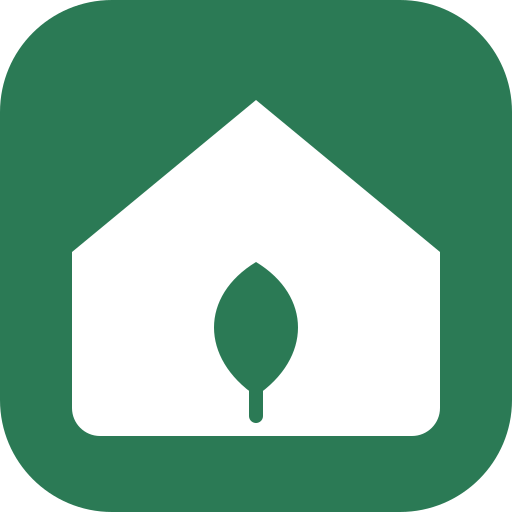
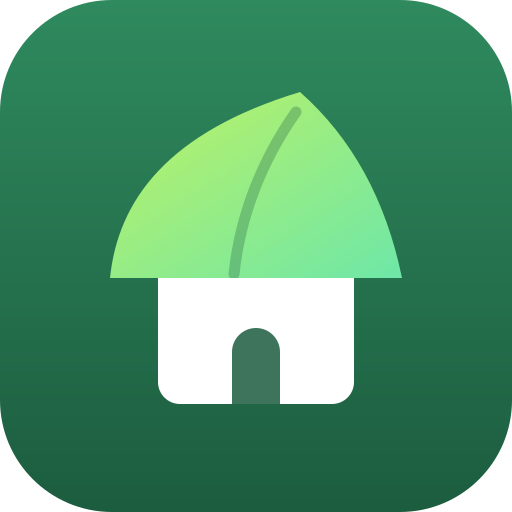
Appoios: marca, logótipo e os dois domínios
A app passa a chamar-se **Appoios** e vive em `appoios.guru`. O `apoios.guru` foi
registado como defensivo e redirige.

## O nome

Levantei a objecção e mantém-se registada: "apoios" é uma palavra portuguesa a
sério, "appoios" é essa palavra mal escrita, e para quem recebe um email sobre 15 000 €
de financiamento um domínio quase-certo é exactamente o que um esquema de phishing
parece. A decisão é do dono do produto e está tomada; fica aqui porque daqui a um
ano ninguém se lembra do raciocínio.

A substituição foi cirúrgica, não global. "Apoios" é o nome da marca **e** o plural
comum que o produto inteiro trata. Mudaram o título, o `applicationName`, o nome no
manifest e o cabeçalho; ficaram como estavam o rótulo `/apoios` na navegação,
"apoios ambientais e energéticos" na descrição e o atalho "Apoios abertos" — que são
a palavra, não a marca.

## O logótipo

Uma casa coberta por uma folha.

Comecei por um "A" cuja travessa era uma folha. Não resultou: uma folha simétrica
deitada com uma nervura ao meio é um olho, em qualquer tamanho, e mexer na geometria
não corrigia o que estava errado na ideia. Uma casa debaixo de uma folha diz casa e
diz verde de uma vez, sem letra nenhuma para decifrar — que é o que um logótipo tem
de fazer no meio segundo que alguém lhe dedica num separador.

A ponta da folha cai para a direita em vez de ficar ao centro: uma folha nasce de um
pé em ângulo, e é essa assimetria que impede a forma de parecer uma tenda. Verifiquei
[…]

diff --git a/apps/web/middleware.ts b/apps/web/middleware.ts
@@ -1,15 +1,72 @@
 import { createServerClient } from "@supabase/ssr";
 import { NextResponse, type NextRequest } from "next/server";
 
+/** Where the app actually lives. */
+const CANONICO = "appoios.guru";
+
+/** The defensive registration. Redirected, and counted before it is. */
+const DEFENSIVOS = new Set(["apoios.guru", "www.apoios.guru"]);
+
+const CONTADOS = new Set([
+  "appoios.guru",
+  "www.appoios.guru",
+  "apoios.guru",
+  "www.apoios.guru",
+]);
+
 /**
- * Refreshes the Supabase session cookie on every matched request.
+ * Count one visit against a domain.
  *
- * Without this, an expired access token is only renewed when something explicitly
- * calls `getUser()`, which signs people out mid-session even though their refresh
- * token is still valid. Someone who set their measures a fortnight ago and comes
- * back to change them should not be asked to sign in again.
+ * Fire and forget, and deliberately not awaited: this exists to answer "is the
+ * defensive domain worth renewing?", and no answer to that is worth making a page
+ * slower or failing a request. A dropped count is a rounding error; a page that
+ * hangs because Supabase is slow is a real problem.
+ *
+ * One row per day per host, no IP, no cookie, no path — see migration 0006. It is
+ * not audience analytics and cannot become it without a schema change, which is
+ * what keeps `/privacidade`'s claim honest.
+ */
+function contar(host: string): void {
+  const url = process.env.NEXT_PUBLIC_SUPABASE_URL;
+  const chave = process.env.NEXT_PUBLIC_SUPABASE_ANON_KEY;
+  if (!url || !chave || !CONTADOS.has(host)) return;
+
+  void fetch(`${url}/rest/v1/rpc/registar_acesso_dominio`, {
+    method: "POST",
+    headers: {
+      "content-type": "application/json",
+      apikey: chave,
+      authorization: `Bearer ${chave}`,
+    },
+    body: JSON.stringify({ p_host: host }),
+  }).catch(() => {
+    // Swallowed on purpose. See above.
+  });
+}
+
+/**
+ * Canonical host, then session refresh.
+ *
+ * Without the refresh an expired access token is only renewed when something calls
+ * `getUser()`, which signs people out mid-session even though their refresh token
+ * is still valid. Someone who set their measures a fortnight ago and comes back to
+ * change them should not be asked to sign in again.
  */
 export async function middleware(request: NextRequest) {
+  const host = (request.headers.get("host") ?? "").toLowerCase().replace(/:\d+$/, "");
+
+  contar(host);
+
+  if (DEFENSIVOS.has(host)) {
+    const destino = new URL(request.nextUrl);
+    destino.host = CANONICO;
+    destino.port = "";
+    destino.protocol = "https:";
+    // 308 rather than 302: permanent, and it preserves the method, so a form post
+    // that lands on the old domain is not silently turned into a GET.
+    return NextResponse.redirect(destino, 308);
+  }
+
   const resposta = NextResponse.next({ request });
 
   const supabase = createServerClient(

diff --git a/apps/web/app/layout.tsx b/apps/web/app/layout.tsx
@@ -10,17 +10,17 @@ export const metadata: Metadata = {
   // that does not serve the site. `urlDoSitio` falls back to the Vercel domain.
   metadataBase: new URL(urlDoSitio()),
   title: {
-    default: "Apoios — financiamento ambiental para a sua casa",
-    template: "%s · Apoios",
+    default: "Appoios — financiamento ambiental para a sua casa",
+    template: "%s · Appoios",
   },
   description:
     "Alertas de apoios ambientais e energéticos em Portugal, para as melhorias " +
     "que quer fazer em casa e a que se pode mesmo candidatar.",
-  applicationName: "Apoios",
+  applicationName: "Appoios",
   manifest: "/manifest.webmanifest",
   appleWebApp: {
     capable: true,
-    title: "Apoios",
+    title: "Appoios",
     // `default` keeps the status bar legible in both colour schemes; `black-translucent`
     // would put iOS's own text over the header.
     statusBarStyle: "default",
@@ -72,13 +72,10 @@ export default function RootLayout({ children }: { children: React.ReactNode }) 
               href="/"
               className="flex items-center gap-2 text-lg font-semibold tracking-tight"
             >
-              <span
-                aria-hidden
-                className="grid size-7 place-items-center rounded-lg bg-marca text-sm font-bold text-white"
-              >
-                A
-              </span>
-              Apoios
+              {/* The mark itself, not a letter in a box: the wordmark is beside it,
+                  so a second "A" here would just say the same thing twice. */}
+              <img src="/icone.svg" alt="" aria-hidden width={28} height={28} className="rounded-lg" />
+              Appoios
             </Link>
             <nav aria-label="Principal" className="flex gap-1 text-sm">
               {LIGACOES.map((l) => (
@@ -106,7 +103,7 @@ export default function RootLayout({ children }: { children: React.ReactNode }) 
         <footer className="mt-16 border-t border-linha bg-superficie">
           <div className="mx-auto max-w-6xl space-y-4 px-4 py-8 text-sm text-suave">
             <p className="max-w-3xl">
-              O Apoios não está associado ao Fundo Ambiental, ao Portugal 2030, ao PRR
+              O Appoios não está associado ao Fundo Ambiental, ao Portugal 2030, ao PRR
               nem a qualquer entidade pública. A informação é recolhida
               automaticamente e pode estar incompleta ou desatualizada.{" "}
               <strong className="font-medium text-tinta">

diff --git a/apps/web/app/privacidade/page.tsx b/apps/web/app/privacidade/page.tsx
@@ -43,7 +43,11 @@ export default function Privacidade() {
       <h2 className="text-lg font-medium pt-2">Cookies</h2>
       <p>
         Usamos apenas o cookie de sessão estritamente necessário ao início de sessão.
-        Não usamos analítica nem cookies de terceiros.
+        Não usamos analítica nem cookies de terceiros. Contamos quantas visitas
+        chegam por cada um dos nossos domínios — só isso, um número por dia e por
+        domínio, sem endereço IP, sem cookie e sem a página visitada. Serve para
+        decidir se vale a pena manter o segundo domínio registado, e não permite
+        identificar ninguém.
       </p>
     </div>
   );

diff --git a/apps/web/app/manifest.webmanifest/route.ts b/apps/web/app/manifest.webmanifest/route.ts
@@ -15,8 +15,8 @@ import type { MetadataRoute } from "next";
 export function GET(): Response {
   const manifest: MetadataRoute.Manifest = {
     id: "/",
-    name: "Apoios — financiamento ambiental para a sua casa",
-    short_name: "Apoios",
+    name: "Appoios — financiamento ambiental para a sua casa",
+    short_name: "Appoios",
     description:
       "Apoios ambientais e energéticos para habitação em Portugal, com alerta " +
       "quando abre financiamento para o que quer melhorar em casa.",

diff --git a/packages/ingest/src/http/tipos.ts b/packages/ingest/src/http/tipos.ts
@@ -39,7 +39,7 @@ export interface Buscador {
  * it claims accountability that is not there.
  */
 export const USER_AGENT =
-  "ApoiosBot/1.0 (+https://apoios.guru/sobre; contacto@apoios.guru)";
+  "AppoiosBot/1.0 (+https://appoios.guru/sobre; contacto@appoios.guru)";
 
 /** Minimum gap between requests to the same host. Government infrastructure. */
 export const ATRASO_ENTRE_PEDIDOS_MS = 2_000;

diff --git a/DEPLOY.md b/DEPLOY.md
@@ -36,7 +36,10 @@ de financiamento errada é exactamente o dano que este produto existe para evita
 
 ## Domínio
 
-**`apoios.guru`**, registado na Namecheap.
+A app chama-se **Appoios** e vive em **`appoios.guru`**. O **`apoios.guru`** foi
+registado como defensivo e redirige (308) para o canónico.
+
+Ambos na Namecheap.
 
 Nada no código o tem escrito à mão. O `urlDoSitio()` resolve a origem por esta ordem:
 `NEXT_PUBLIC_APP_URL` → domínio de produção da Vercel → localhost. É deliberado: um
@@ -53,12 +56,27 @@ que tem para pedir que abrande. Têm de resolver e de receber correio a sério.
 
 | onde | o quê |
 |---|---|
-| Vercel → Domains | adicionar `apoios.guru` e `www.apoios.guru`; copiar os registos que a Vercel mostrar |
+| Vercel → Domains | adicionar `appoios.guru`, `www.appoios.guru`, `apoios.guru`, `www.apoios.guru`; copiar os registos que a Vercel mostrar |
 | Namecheap → Advanced DNS | criar esses registos (a Vercel dá os valores exactos; não os adivinhe) |
-| Vercel → Environment Variables | `NEXT_PUBLIC_APP_URL=https://apoios.guru` |
-| Supabase → Authentication → URL Configuration | Site URL `https://apoios.guru`; Redirect URLs incluindo `https://apoios.guru/auth/confirmar` |
+| Vercel → Environment Variables | `NEXT_PUBLIC_APP_URL=https://appoios.guru` |
+| Supabase → Authentication → URL Configuration | Site URL `https://appoios.guru`; Redirect URLs incluindo `https://appoios.guru/auth/confirmar` |
 | Supabase → Authentication → Email Templates → Magic Link | apontar para `/auth/confirmar` com `{{ .TokenHash }}` — **não** `{{ .ConfirmationURL }}` |
-| Resend → Domains | verificar `apoios.guru`; os registos DKIM/SPF são gerados por domínio |
+| Resend → Domains | verificar `appoios.guru`; os registos DKIM/SPF são gerados por domínio |
+
+### O defensivo vale a renovação?
+
+O redireccionamento é contado. A migração `0006` cria `dominio_acessos` — um contador
+por dia e por domínio, sem IP, sem cookie, sem caminho — e o middleware chama-a antes
+de redirigir. Ao fim do ano a pergunta responde-se com uma consulta:
+
+```sql
+select host, sum(contagem) as visitas
+  from dominio_acessos
+ where dia >= current_date - 365
+ group by host order by visitas desc;
+```
+
+Se o `apoios.guru` estiver perto de zero, não se renova.
 
 O template do Magic Link não é um detalhe: o `{{ .ConfirmationURL }}` por omissão
 manda as pessoas pelo `/verify` do Supabase e de volta ao fluxo PKCE, que falha
@@ -68,7 +86,7 @@ sempre em telemóvel — a webview do Gmail tem outro frasco de cookies e o
 ## Variáveis de ambiente
 
 ```
-NEXT_PUBLIC_APP_URL            https://apoios.guru
+NEXT_PUBLIC_APP_URL            https://appoios.guru
 NEXT_PUBLIC_SUPABASE_URL
 NEXT_PUBLIC_SUPABASE_ANON_KEY
 ```
